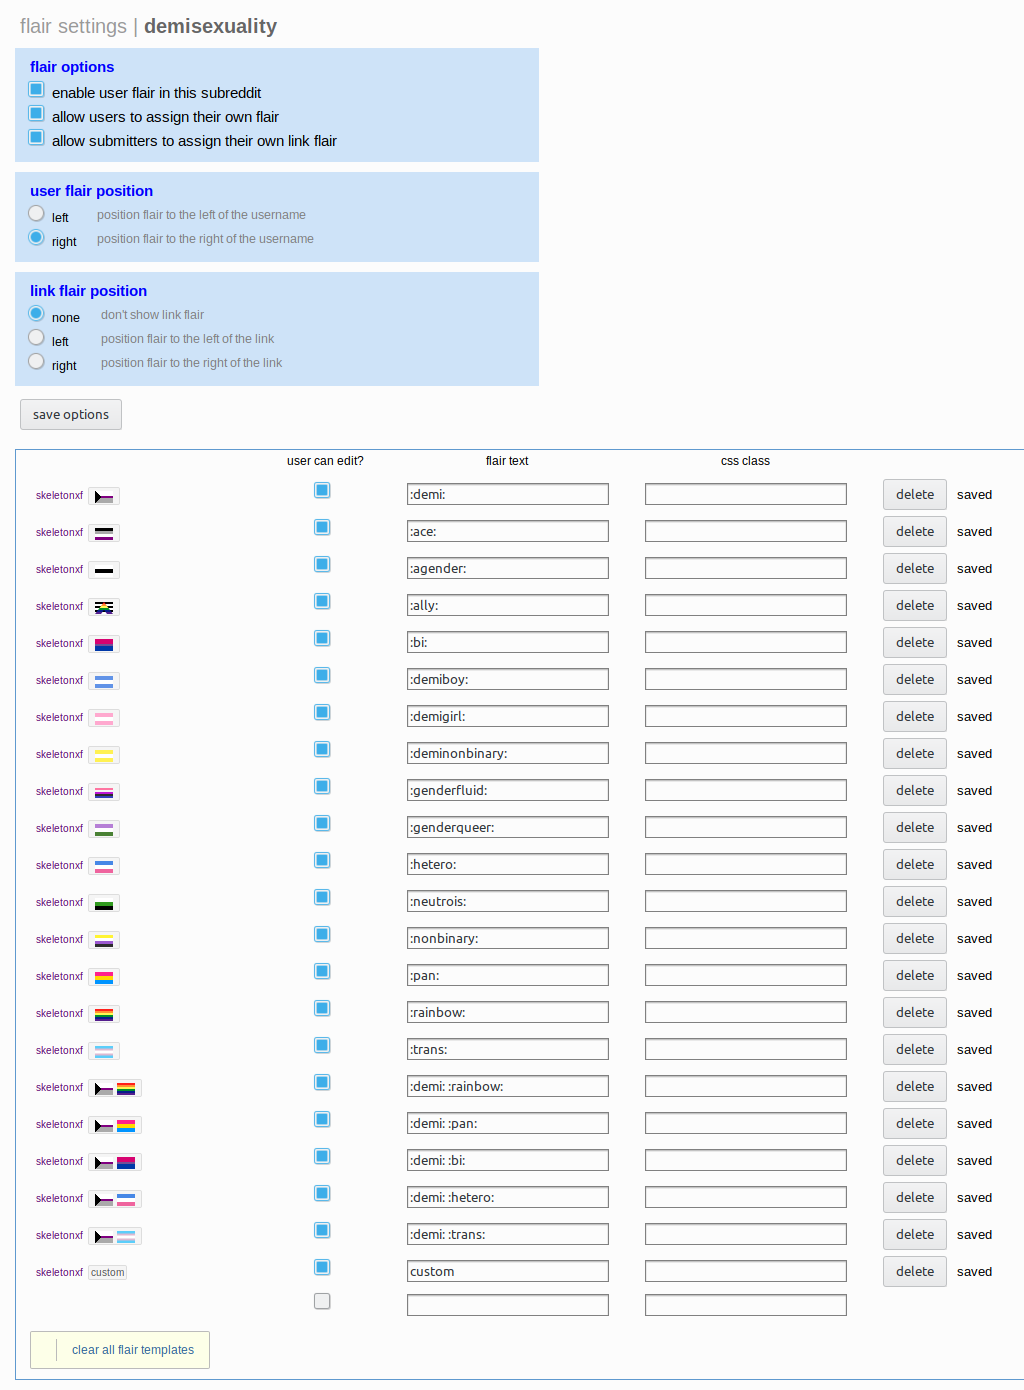
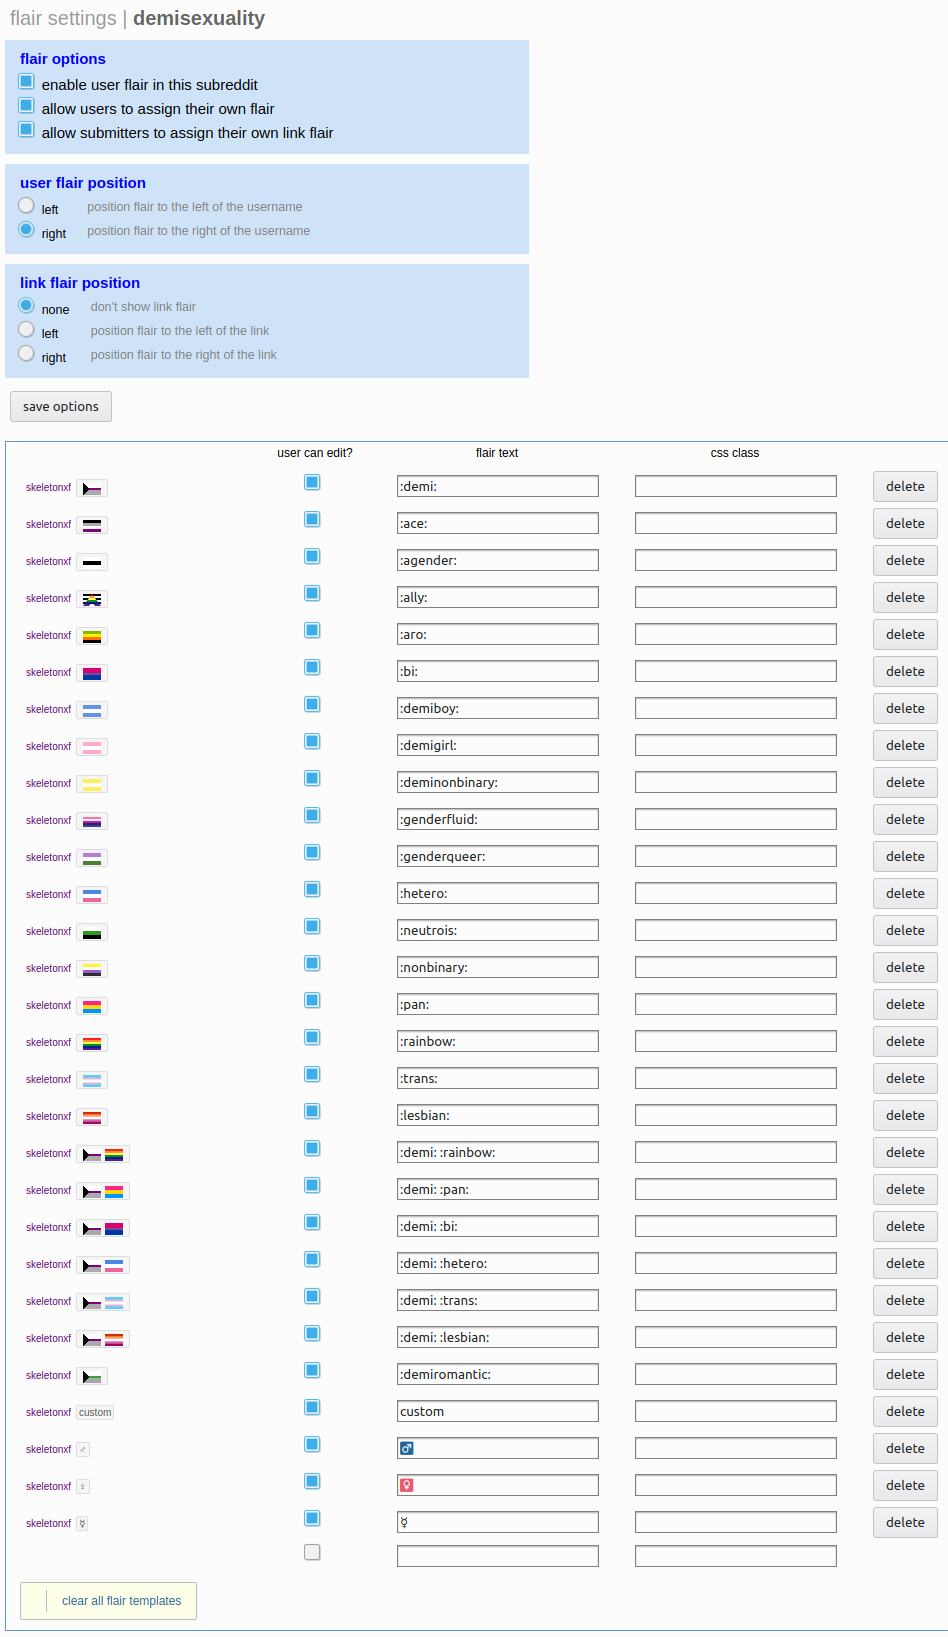
Add demiromantic flag and update flair reference screenshot

Changed region(s): [[0.0, 0.0, 1.0, 1.0], [0.7648, 0.2475, 0.7954, 0.2784]]

diff --git a/flags.css b/flags.css
@@ -88,6 +88,10 @@ span.flairemoji[title=":demi:"]:hover:after {
   content: "Demisexual";
 }
 
+span.flairemoji[title=":demiromantic:"]:hover:after {
+  content: "Demiromantic";
+}
+
 span.flairemoji[title=":demiboy:"]:hover:after {
   content: "Demiboy";
 }

diff --git a/README.md b/README.md
@@ -11,14 +11,14 @@ All CSS has now been rewritten since the fork and this should be considered a se
 
 1. Go to http://new.reddit.com/r/yoursubreddit.
    Go to mod tools -> community tools -> emojis. Enable emojis in this subreddit. Then click add new emoji and navigate to the `/flag-images` folder. Upload each emoji as an image to reddit using **the same name** as its file name. Reddit will display these names with a `:` on each side.
-   [Reference screenshot](https://github.com/Skeletonxf/r-ainbow-flags/raw/master/emoji-flags.png) (Note: Screenshot does not include the aromantic or lesbian flags)
+   [Reference screenshot](https://github.com/Skeletonxf/r-ainbow-flags/raw/master/emoji-flags.png) (Note: Screenshot does not include the aromantic, lesbian or demiromantic flags)
 
 2. Go to http://old.reddit.com/r/yoursubreddit/about/stylesheet.
    Paste the CSS from "flags.css" into the bottom of your stylesheet and click the save button.
 
 3. Go to http://old.reddit.com/r/yoursubreddit/about/flair.
    Click on the "User Flair Templates" tab. Add a new row for each flag, check "user can edit?" and fill in the flair text with the name of the emoji putting `:` on each side. Leave the "CSS class" field blank - we no longer need this. The order of the templates does not matter, so choose whatever makes most sense for your subreddit. /r/Demisexuality for instance puts the Demi flag first and then all others alphabetically.
-   [Reference screeshot](https://github.com/Skeletonxf/r-ainbow-flags/raw/master/flair-page-reference.png) (Note: Screenshot is not updated to include the aromantic or lesbian flags)  
+   [Reference screeshot](https://github.com/Skeletonxf/r-ainbow-flags/raw/master/flair-page-reference.png)  
    As you can see in the screenshot it may also be useful for you to include the most common pairs of flags users in your subreddit might want below the list of individual flags.
    (Tip: You can also use new reddit to move the order of flair templates around https://new.reddit.com/r/yoursubreddit/about/userflair)
 4. Check off the "allow users to assign their own flair" box atop the page so people can select their own flags and create their own combinations of flags.
